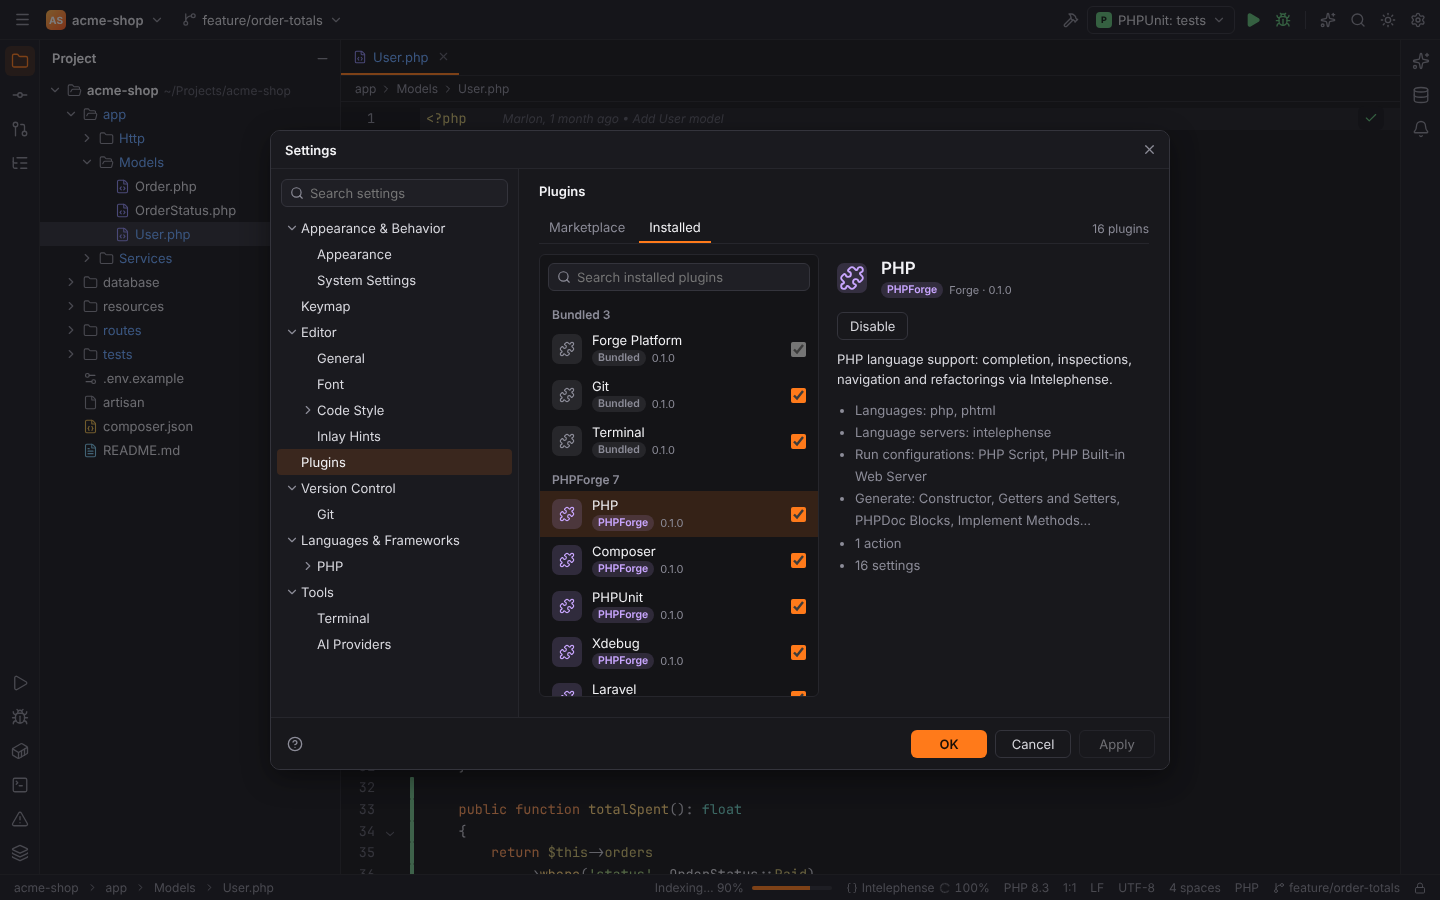
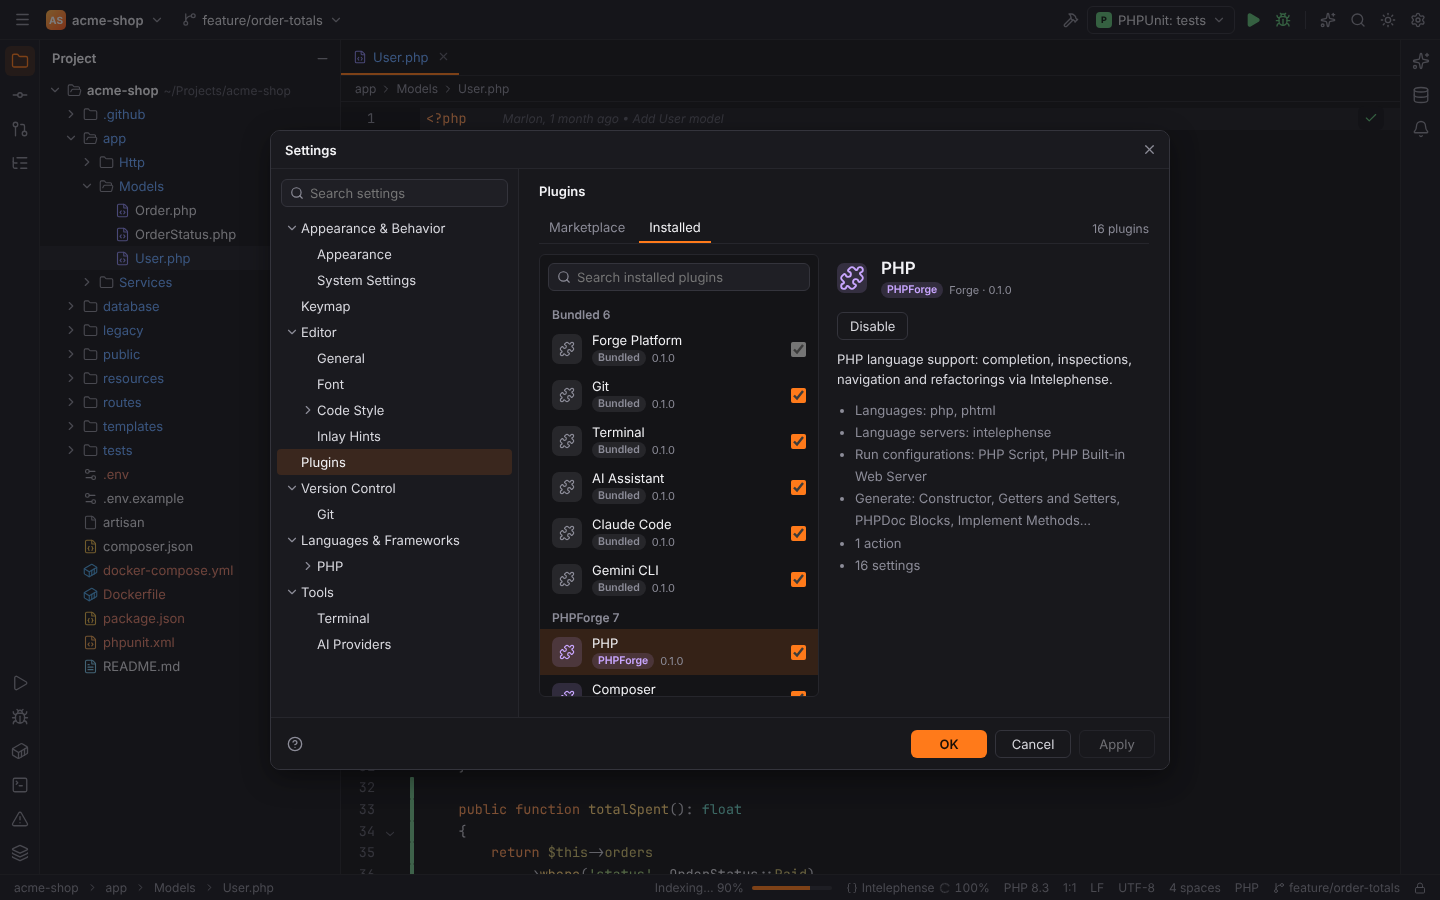
refactor: rename repository to Forge and fold the AI plugins into the core pack

Changed region(s): [[0.375, 0.5289, 0.5938, 0.7778], [0.0625, 0.2178, 0.1562, 0.7467], [0.0625, 0.1244, 0.125, 0.2178]]

diff --git a/app/ui/src/ipc/ai.ts b/app/ui/src/ipc/ai.ts
@@ -195,7 +195,7 @@ export interface ProviderPreset {
 export const providerPresets: ProviderPreset[] = [
   { kind: "anthropic", name: "Anthropic", description: "Claude models via the Anthropic API", baseUrl: "https://api.anthropic.com/v1", defaultModel: "claude-sonnet-5-5", needsKey: true, envVar: "ANTHROPIC_API_KEY", local: false },
   { kind: "openai", name: "OpenAI", description: "GPT models via the OpenAI API", baseUrl: "https://api.openai.com/v1", defaultModel: "gpt-4.1", needsKey: true, envVar: "OPENAI_API_KEY", local: false },
-  { kind: "openrouter", name: "OpenRouter", description: "Hundreds of models through one API key", baseUrl: "https://openrouter.ai/api/v1", defaultModel: "anthropic/claude-sonnet-5.5", needsKey: true, envVar: "OPENROUTER_API_KEY", local: false, headers: { "HTTP-Referer": "https://github.com/Reeperk/PHPForge", "X-Title": "Forge IDE" } },
+  { kind: "openrouter", name: "OpenRouter", description: "Hundreds of models through one API key", baseUrl: "https://openrouter.ai/api/v1", defaultModel: "anthropic/claude-sonnet-5.5", needsKey: true, envVar: "OPENROUTER_API_KEY", local: false, headers: { "HTTP-Referer": "https://github.com/Reeperk/Forge", "X-Title": "Forge IDE" } },
   { kind: "ollama", name: "Ollama", description: "Local models served by Ollama", baseUrl: "http://localhost:11434/v1", needsKey: false, local: true },
   { kind: "lmstudio", name: "LM Studio", description: "Local models served by LM Studio", baseUrl: "http://localhost:1234/v1", needsKey: false, local: true },
   { kind: "llamacpp", name: "llama.cpp", description: "llama-server with an OpenAI-compatible API", baseUrl: "http://localhost:8080/v1", needsKey: false, local: true },

diff --git a/app/ui/src/features/settings/PluginsPage.tsx b/app/ui/src/features/settings/PluginsPage.tsx
@@ -14,7 +14,6 @@ export const PACKS: Record<string, { label: string; order: number }> = {
   phpforge: { label: "PHPForge", order: 1 },
   webforge: { label: "WebForge", order: 2 },
   luaforge: { label: "LuaForge", order: 3 },
-  aiforge: { label: "AIForge", order: 4 },
 };
 
 const packLabel = (pack: string) => PACKS[pack]?.label ?? pack;

diff --git a/app/ui/src/features/ai-chat/index.ts b/app/ui/src/features/ai-chat/index.ts
@@ -1,5 +1,5 @@
 /**
- * AI Chat (AIForge): CLI coding agents rendered as a native chat. Forge runs the user's
+ * AI Chat: CLI coding agents rendered as a native chat. Forge runs the user's
  * installed CLI headless (`forge-agent-cli`) and renders its structured event stream.
  */
 import { Gem, Sparkles } from "lucide-solid";

diff --git a/app/ui/src/ipc/settings.ts b/app/ui/src/ipc/settings.ts
@@ -109,7 +109,7 @@ export interface Contributions {
   codeGenerators: CodeGeneratorContribution[];
 }
 
-export type PackId = "core" | "phpforge" | "webforge" | "luaforge" | "aiforge";
+export type PackId = "core" | "phpforge" | "webforge" | "luaforge";
 
 export interface PluginInfo {
   id: string;

diff --git a/app/ui/src/features/settings/settings.css b/app/ui/src/features/settings/settings.css
@@ -567,9 +567,6 @@
 .pack-luaforge {
   --pack: var(--syn-type);
 }
-.pack-aiforge {
-  --pack: var(--accent);
-}
 .plugin-details {
   flex: 1;
   min-width: 0;

diff --git a/crates/forge-plugin-api/src/lib.rs b/crates/forge-plugin-api/src/lib.rs
@@ -22,7 +22,7 @@ pub struct PluginManifest {
     pub id: String,
     pub name: String,
     pub version: String,
-    /// Pack this plugin belongs to (`phpforge`, `luaforge`, `webforge`, `aiforge`, or `core`).
+    /// Pack this plugin belongs to (`phpforge`, `luaforge`, `webforge`, or `core`).
     pub pack: String,
     #[serde(default)]
     pub description: String,

diff --git a/crates/forge-ai/src/config.rs b/crates/forge-ai/src/config.rs
@@ -109,7 +109,7 @@ impl ProviderKind {
         if self == ProviderKind::OpenRouter {
             h.insert(
                 "HTTP-Referer".into(),
-                "https://github.com/Reeperk/PHPForge".into(),
+                "https://github.com/Reeperk/Forge".into(),
             );
             h.insert("X-Title".into(), "Forge IDE".into());
         }

diff --git a/docs/ROADMAP.md b/docs/ROADMAP.md
@@ -8,7 +8,7 @@
 - [ ] PHPForge language pack: Intelephense (bring your own license) / phpactor, PHPDoc & attribute hover, Generate menu (Alt+Insert: getters/setters/constructor)
 - [ ] Git: Commit tool window, diff, inline blame, branches, AI commit messages
 - [ ] AI providers: Anthropic, OpenRouter, Ollama, llama.cpp, LM Studio, any OpenAI-compatible API
-- [ ] AIForge chat: Claude Code rendered as chat (no terminal), tool calls & diffs as cards
+- [x] AI chat: Claude Code rendered as chat (no terminal), tool calls & diffs as cards
 - [ ] PHPStorm keymap 1:1, Find Action, Search Everywhere
 
 ## Next branches
@@ -23,8 +23,7 @@
 | `feat/docker-kubernetes` | Services tool window: containers, compose, pods, logs |
 | `feat/gitlab-forgejo` | GitLab, Forgejo/Gitea merge requests & issues |
 | `feat/remote-sessions` | SSH remote backend with remote indexing & LSP |
-| `feat/gemini-cli-plugin` | Gemini CLI as AIForge chat agent |
-| `feat/aiforge-orchestration` | Several agents in parallel, tasks, worktrees, review & apply |
+| `feat/gemini-cli-plugin` | Gemini CLI as a chat agent |
 | `feat/webforge` | Web pack |
 | `feat/luaforge` | Lua pack |
 | `feat/scratch-files` | Scratches & consoles (Ctrl+Alt+Shift+Insert) |

diff --git a/README.md b/README.md
@@ -10,7 +10,10 @@ Forge is the core. Languages and big feature sets ship as **packs** of plugins:
 | **PHPForge** | PHP, Laravel, Symfony, Doctrine (DQL), Composer, PHPUnit, Xdebug |
 | **WebForge** | HTML, CSS, JavaScript/TypeScript, Vue/React, Node |
 | **LuaForge** | Lua |
-| **AIForge** | AI agents: Claude Code, Gemini CLI, any OpenAI-compatible model; orchestrate several agents in parallel |
+
+AI is built into the core: chat with Claude Code or Gemini CLI rendered natively (no terminal),
+AI commit messages, and any provider: Anthropic, OpenAI, OpenRouter, Ollama, LM Studio, llama.cpp
+or another OpenAI-compatible API.
 
 The layout and keymap follow PHPStorm 1:1 so you feel at home immediately; the look is Forge's own.
 

diff --git a/.claude/skills/add-plugin-or-pack/SKILL.md b/.claude/skills/add-plugin-or-pack/SKILL.md
@@ -5,7 +5,7 @@ description: Create a new Forge plugin or language/framework pack (e.g. LuaForge
 
 # Add a plugin or pack
 
-A **pack** groups plugins (`phpforge`, `webforge`, `luaforge`, `aiforge`, `core`). A **plugin**
+A **pack** groups plugins (`phpforge`, `webforge`, `luaforge`, `core`; AI plugins live in `core`). A **plugin**
 is a manifest plus optional Rust crate plus optional UI feature.
 
 ## 1. Manifest

diff --git a/docs/ARCHITECTURE.md b/docs/ARCHITECTURE.md
@@ -2,7 +2,7 @@
 
 ```
 crates/            Rust core libraries (forge-*), language-agnostic
-packs/<pack>/      Plugins grouped by pack: phpforge, webforge, luaforge, aiforge
+packs/<pack>/      Plugins grouped by pack: phpforge, webforge, luaforge
 plugins/           Generic plugins (git, database, docker, xdebug, ...)
 app/src-tauri/     Desktop shell: Tauri setup + IPC commands
 app/ui/            SolidJS UI

diff --git a/CLAUDE.md b/CLAUDE.md
@@ -1,7 +1,8 @@
 # Forge – notes for coding agents
 
 Forge is a PHPStorm-style IDE: Rust + Tauri 2 backend, SolidJS + CodeMirror 6 UI.
-Packs: PHPForge (PHP/Laravel/Symfony/Doctrine), WebForge, LuaForge, AIForge (AI agents).
+Packs: PHPForge (PHP/Laravel/Symfony/Doctrine), WebForge, LuaForge. AI (providers, Claude Code /
+Gemini CLI chat) is part of the core.
 
 ## Layout
 
